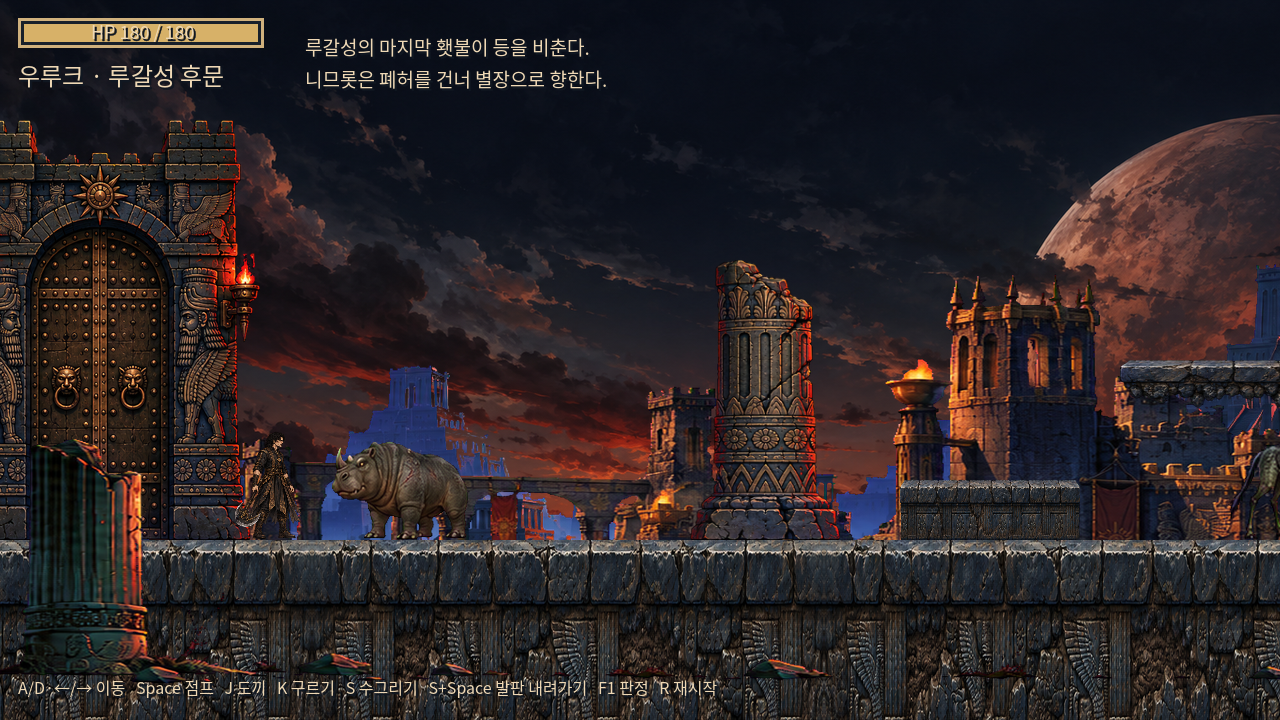
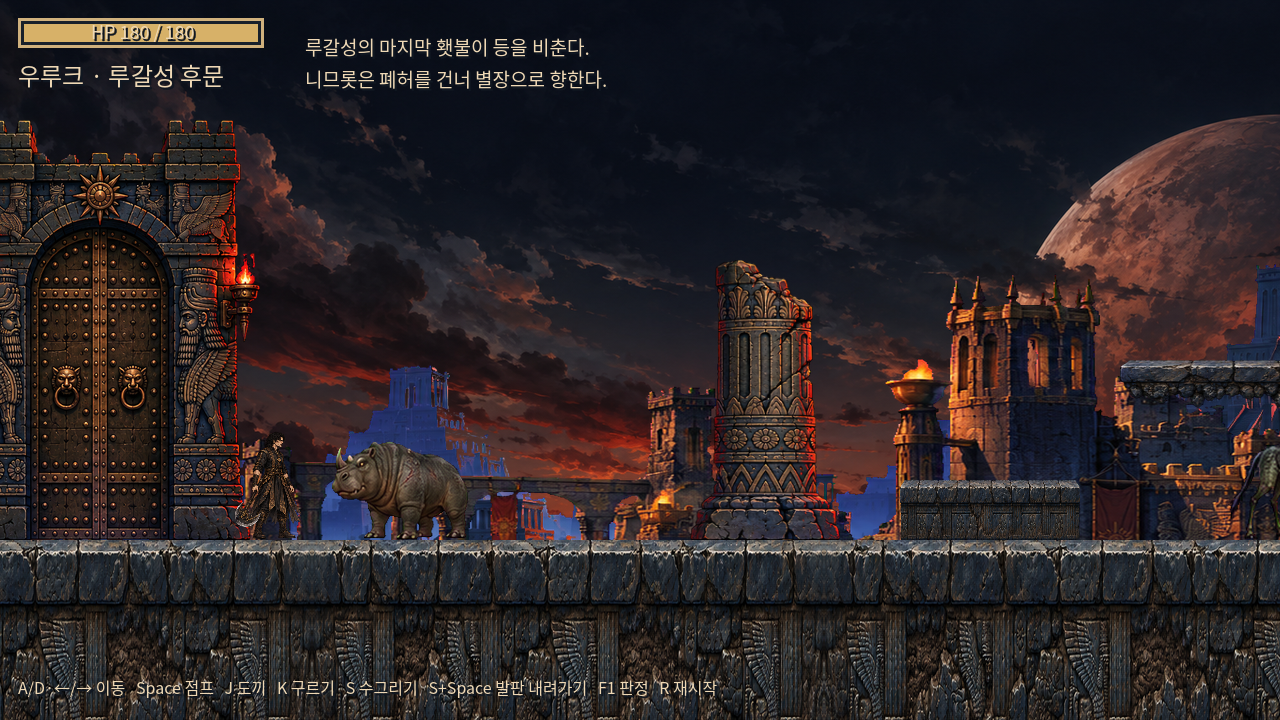
Remove rear gate foreground artwork and layer

diff --git a/tools/build_map_assets.py b/tools/build_map_assets.py
@@ -23,7 +23,7 @@ def pack(kind, source, output, *options):
 
 def main():
     for name, size in [("sky", "1536,720"), ("far_city", "1920,720"),
-                       ("castle_wall", "2560,720"), ("foreground", "3328,720")]:
+                       ("castle_wall", "2560,720")]:
         options = ["--size", size]
         if name == "sky":
             options.append("--opaque")
@@ -66,7 +66,7 @@ def main():
     provenance = {
         "generator": "image_gen.imagegen",
         "postprocess": "tools/pack_sprites.py: chromakey/crop/resize/anchor/edge-pixel blend only",
-        "backgrounds": ["sky_source.png", "far_city_source.png", "castle_wall_source.png", "foreground_source.png"],
+        "backgrounds": ["sky_source.png", "far_city_source.png", "castle_wall_source.png"],
         "terrain": "terrain_source.png",
         "props": "props_source.png",
         "effects": "fx_source.png",

diff --git a/tools/ART_PIPELINE_KO.md b/tools/ART_PIPELINE_KO.md
@@ -39,6 +39,8 @@ python tools/pack_sprites.py sheet spark_raw.png assets/sprites/fx/hit_spark.png
 
 ## 배경·지형·장식
 
+사용자 요청에 따라 전경 에셋 `assets/backgrounds/rear_gate/foreground.png`, 마젠타 생성 원본 `assets/source_art/foreground_source.png`, 프롬프트 `assets/image_prompts/rear_gate_foreground.md`를 제거했다. 맵은 하늘·먼 도시·루갈성 외벽의 3겹 파랄랙스(0.05/0.20/0.45)를 사용한다. 에셋 manifest·출처 기록·재패킹 도구·검사에서도 전경을 제외하며 `build_map_assets.py`는 전경을 다시 만들지 않는다.
+
 ```bash
 python tools/pack_sprites.py image generated.png assets/props/rear_gate_door.png --crop 0,0,320,420 --size 320,420
 python tools/pack_sprites.py image generated_sky.png assets/backgrounds/rear_gate/sky.png --size 1536,720 --opaque
@@ -53,6 +55,6 @@ python tools/pack_sprites.py image generated_ground.png assets/tiles/rear_gate/g
 python tools/validate_assets.py
 ```
 
-기본 검사는 `assets/art_manifest.json`이 요구하는 30개 PNG 전체를 확인하며 하나라도 없으면 실패한다. PNG 형식, RGBA, 정확한 크기·프레임 수, 프레임별 비어 있지 않은 그림, 연속 복제 프레임 여부, 괴수 앵커, 알파, manifest의 fps/길이, 파랄랙스 이동을 덮는 너비, 바닥 타일 양쪽 경계의 일치를 확인한다. `--allow-missing`은 제작 도중 있는 파일만 검사하며 누락을 SKIPPED로 보고한다. PARTIAL PASS는 최종 아트 완료를 뜻하지 않는다.
+기본 검사는 `assets/art_manifest.json`이 요구하는 29개 PNG 전체를 확인하며 하나라도 없으면 실패한다. PNG 형식, RGBA, 정확한 크기·프레임 수, 프레임별 비어 있지 않은 그림, 연속 복제 프레임 여부, 괴수 앵커, 알파, manifest의 fps/길이, 파랄랙스 이동을 덮는 너비, 바닥 타일 양쪽 경계의 일치를 확인한다. `--allow-missing`은 제작 도중 있는 파일만 검사하며 누락을 SKIPPED로 보고한다. PARTIAL PASS는 최종 아트 완료를 뜻하지 않는다.
 
 이미지 생성이 불가능한 환경에서는 `assets/image_prompts/`의 프롬프트를 사용자에게 전달하고 런타임의 회색 `MISSING` 폴백을 유지한다. 코드 도형이나 절차적 생성으로 최종 아트를 대체하지 않는다.
